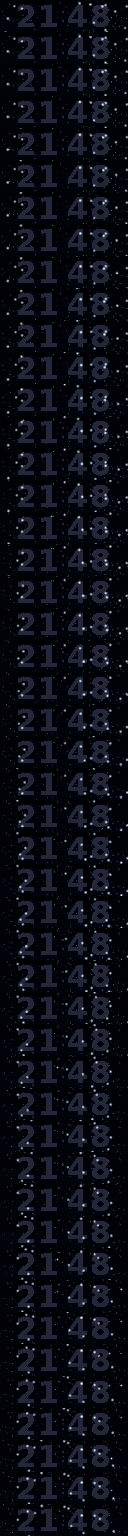
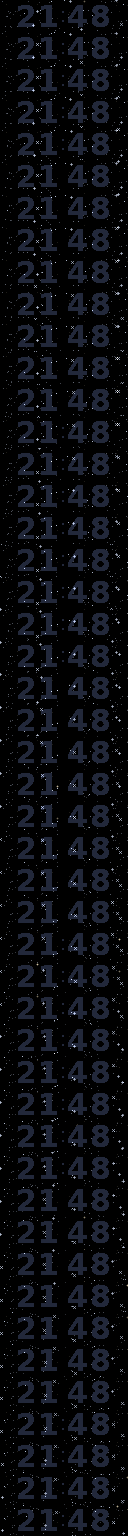
Kar: siyah gok, keskin +/x taneler, parlama, kar tozu esintisi
Claude-Session: https://claude.ai/code/session_01FXJygXqpMTD4wR1gjWr1uA

diff --git a/Core/Src/SpecDisplay.c b/Core/Src/SpecDisplay.c
@@ -81,6 +81,8 @@ typedef struct { float X, Y, Vx, Vy, Lm, Age, Dur, P; uint32_t Last; uint8_t On;
 #define SN_UZAK			70				/* Kar: uzak / yakin tane, yildiz sayisi	*/
 #define SN_YAKIN		16
 #define SN_YILDIZ		16
+#define SN_ARTI			7				/* Yakin tanelerin ilk 7'si "+"/"x" seklinde	*/
+#define SN_TOZ			40				/* Esintideki kar tozu zerresi			*/
 
 typedef struct { float R, Speed; uint16_t Hue; uint8_t Alive; } Ring;
 typedef struct { float X, Y, Vx, Vy; uint16_t Hue; uint8_t Life; } Particle;
@@ -136,9 +138,10 @@ static union
 	struct											/* Kar */
 	{
 		float		Ux[SN_UZAK], Uy[SN_UZAK], Uv[SN_UZAK];				/* Uzak taneler	*/
-		float		Yx[SN_YAKIN], Yy[SN_YAKIN], Yv[SN_YAKIN], Yf[SN_YAKIN];	/* Yakin taneler	*/
-		float		Sp[SN_YILDIZ], T, Ruzgar;								/* Yildiz parlamasi	*/
-		uint8_t		Ub[SN_UZAK], Sx[SN_YILDIZ], Sy[SN_YILDIZ], Ready;
+		float		Yx[SN_YAKIN], Yy[SN_YAKIN], Yv[SN_YAKIN], Yf[SN_YAKIN], Yp[SN_YAKIN];	/* Yakin taneler, parlama */
+		float		Tx[SN_TOZ], Ty[SN_TOZ], Tv[SN_TOZ];					/* Kar tozu		*/
+		float		Sp[SN_YILDIZ], T, Ruzgar, Es, EsT, EsSonra, EsY, EsYon;	/* Yildiz; esinti	*/
+		uint8_t		Ub[SN_UZAK], Tb[SN_TOZ], Sx[SN_YILDIZ], Sy[SN_YILDIZ], Ready;
 	} Sn;
 	struct { float T, Wx, Wd, Wa, Fl; float Gl[128]; uint8_t Pal[64][3];
 	         Meteor Me; uint8_t Ready; } Au;	/* Aurora */
@@ -2999,23 +3002,48 @@ static void SnRakam(int X0, int Y0, uint8_t Rakam)
 				Set(X0 + x, Y0 + y, 34, 40, 58);
 }
 
-/* Yumusak tane: R yaricapinda, merkez piksel arasinda olabilir (piksel alti) */
-static void SnTane(float Fx, float Fy, float R, uint32_t L)
-{
-	int x, y;
-	const int x0 = (int)floorf(Fx - R), x1 = (int)ceilf(Fx + R);
-	const int y0 = (int)floorf(Fy - R), y1 = (int)ceilf(Fy + R);
+/* Kar tanesi: keskin piksel(ler), yumusatma yok. Sekil 0 tek piksel, 1 "+", 2 "x" */
+#define SN_R(L)	((uint8_t)(((L) * 220U) >> 8))			/* Mavimsi beyaz (yildizlar sarimsi) */
+#define SN_G(L)	((uint8_t)(((L) * 232U) >> 8))
 
-	for(y = y0; y <= y1; y++)
-		for(x = x0; x <= x1; x++)
-		{
-			const float dx = (float)x + 0.5f - Fx, dy = (float)y + 0.5f - Fy;
-			float w = 1.0f - sqrtf(dx * dx + dy * dy) / (R + 0.5f);
-			uint32_t v;
-			if(w <= 0.0f) continue;
-			v = (uint32_t)((float)L * w);
-			Add(x, y, (uint8_t)((v * 235U) >> 8), (uint8_t)((v * 242U) >> 8), (uint8_t)v);	/* Hafif mavi beyaz */
-		}
+static void SnTane(float Fx, float Fy, uint8_t Sekil, uint32_t L)
+{
+	const int x = (int)floorf(Fx), y = (int)floorf(Fy);
+	uint32_t K;
+
+	if(L > 255U) L = 255U;
+	K = (L * 3U) >> 2;									/* Kollar biraz sonuk ama keskin */
+	Add(x, y, SN_R(L), SN_G(L), (uint8_t)L);
+	if(Sekil == 1U)
+	{
+		Add(x - 1, y, SN_R(K), SN_G(K), (uint8_t)K); Add(x + 1, y, SN_R(K), SN_G(K), (uint8_t)K);
+		Add(x, y - 1, SN_R(K), SN_G(K), (uint8_t)K); Add(x, y + 1, SN_R(K), SN_G(K), (uint8_t)K);
+	}
+	else if(Sekil == 2U)
+	{
+		Add(x - 1, y - 1, SN_R(K), SN_G(K), (uint8_t)K); Add(x + 1, y + 1, SN_R(K), SN_G(K), (uint8_t)K);
+		Add(x + 1, y - 1, SN_R(K), SN_G(K), (uint8_t)K); Add(x - 1, y + 1, SN_R(K), SN_G(K), (uint8_t)K);
+	}
+}
+
+/* Kar tozu esintisi: 20-40 s'de bir, ~2.5 s; ince sonuk zerreler hizla yatay gecer */
+#define SN_ES_SURE		2.5f
+
+static void SnEsintiBasla(void)
+{
+	uint32_t i;
+
+	U.Sn.EsYon = (Rand() & 1U) ? 1.0f : -1.0f;
+	U.Sn.EsY   = 8.0f + RandF() * ((float)H - 16.0f);
+	U.Sn.EsT   = 0.0f;
+	for(i = 0; i < SN_TOZ; i++)
+	{
+		const float d = RandF() * (float)W * 1.2f;		/* Ruzgarin geldigi kenarin disinda, kuyruk halinde */
+		U.Sn.Tx[i] = (U.Sn.EsYon > 0.0f) ? -d : (float)W + d;
+		U.Sn.Ty[i] = U.Sn.EsY + (RandF() - 0.5f) * 10.0f;
+		U.Sn.Tv[i] = 55.0f + RandF() * 35.0f;
+		U.Sn.Tb[i] = (uint8_t)(25U + (Rand() % 40U));
+	}
 }
 
 static void SnYeni(uint32_t i, uint8_t Yakin, uint8_t Basta)
@@ -3025,7 +3053,8 @@ static void SnYeni(uint32_t i, uint8_t Yakin, uint8_t Basta)
 	{
 		U.Sn.Yx[i] = RandF() * (float)W;   U.Sn.Yy[i] = y;
 		U.Sn.Yv[i] = 9.0f + RandF() * 6.0f;					/* px/s */
-		U.Sn.Yf[i] = RandF() * 6.28f;						/* Salinim fazi */
+		U.Sn.Yf[i] = RandF() * 6.28f;						/* Salinim / donme fazi */
+		U.Sn.Yp[i] = 0.0f;
 	}
 	else
 	{
@@ -3052,15 +3081,31 @@ static void ModeSnow(void)
 			U.Sn.Sx[i] = (uint8_t)(Rand() % W);
 			U.Sn.Sy[i] = (uint8_t)(Rand() % (H * 2U / 3U));
 		}
+		U.Sn.EsSonra = 8.0f + RandF() * 12.0f;			/* Ilk esinti erken gelsin */
 		U.Sn.Ready = 1;
 	}
 	U.Sn.T += Gdt;
 	U.Sn.Ruzgar = 3.0f * sinf(U.Sn.T * 0.07f) + 1.5f * sinf(U.Sn.T * 0.23f + 1.0f);	/* px/s, yavas doner */
 
-	/* Gok: ustte daha koyu lacivert */
+	/* Esinti zarfi: 0 -> 1 -> 0, sonra 20-40 s bekle */
+	U.Sn.Es = 0.0f;
+	if(U.Sn.EsSonra > 0.0f)
+	{
+		U.Sn.EsSonra -= Gdt;
+		if(U.Sn.EsSonra <= 0.0f) SnEsintiBasla();
+	}
+	else
+	{
+		U.Sn.EsT += Gdt;
+		if(U.Sn.EsT >= SN_ES_SURE) U.Sn.EsSonra = 20.0f + RandF() * 20.0f;
+		else U.Sn.Es = sinf(3.14159f * U.Sn.EsT / SN_ES_SURE);
+	}
+	U.Sn.Ruzgar += U.Sn.EsYon * 22.0f * U.Sn.Es;		/* Esintide taneler de savrulur */
+
+	/* Gok: siyah (gece odayi aydinlatmasin) */
 	for(y = 0; y < (int)H; y++)
 		for(x = 0; x < (int)W; x++)
-			Set(x, y, 0, (uint8_t)(1U + (uint32_t)y / 12U), (uint8_t)(5U + (uint32_t)y / 5U));
+			Set(x, y, 0, 0, 0);
 
 	/* Yildizlar: hafif parlak durur; ara sira aniden parlar, ~0.3 s'de soner */
 	for(i = 0; i < SN_YILDIZ; i++)
@@ -3069,12 +3114,12 @@ static void ModeSnow(void)
 		if(RandF() < Gdt / 3.0f) U.Sn.Sp[i] = 1.0f;		/* Ortalama 3 s'de bir */
 		U.Sn.Sp[i] *= 0.90f;
 		L = 30U + (uint32_t)(225.0f * U.Sn.Sp[i]);
-		Add(U.Sn.Sx[i], U.Sn.Sy[i], (uint8_t)L, (uint8_t)L, (uint8_t)L);
+		Add(U.Sn.Sx[i], U.Sn.Sy[i], (uint8_t)L, (uint8_t)((L * 240U) >> 8), (uint8_t)((L * 200U) >> 8));	/* Sarimsi */
 		if(U.Sn.Sp[i] > 0.3f)							/* Parlakken kucuk isik haci */
 		{
-			const uint8_t k = (uint8_t)(90.0f * U.Sn.Sp[i]);
-			Add(U.Sn.Sx[i] - 1, U.Sn.Sy[i], k, k, k); Add(U.Sn.Sx[i] + 1, U.Sn.Sy[i], k, k, k);
-			Add(U.Sn.Sx[i], U.Sn.Sy[i] - 1, k, k, k); Add(U.Sn.Sx[i], U.Sn.Sy[i] + 1, k, k, k);
+			const uint8_t k = (uint8_t)(90.0f * U.Sn.Sp[i]), kg = (uint8_t)((k * 240U) >> 8), kb = (uint8_t)((k * 200U) >> 8);
+			Add(U.Sn.Sx[i] - 1, U.Sn.Sy[i], k, kg, kb); Add(U.Sn.Sx[i] + 1, U.Sn.Sy[i], k, kg, kb);
+			Add(U.Sn.Sx[i], U.Sn.Sy[i] - 1, k, kg, kb); Add(U.Sn.Sx[i], U.Sn.Sy[i] + 1, k, kg, kb);
 		}
 	}
 
@@ -3086,7 +3131,7 @@ static void ModeSnow(void)
 		if(U.Sn.Ux[i] < -2.0f) U.Sn.Ux[i] += (float)W + 4.0f;
 		if(U.Sn.Ux[i] > (float)W + 2.0f) U.Sn.Ux[i] -= (float)W + 4.0f;
 		if(U.Sn.Uy[i] > (float)H + 1.0f) SnYeni(i, 0, 0);
-		SnTane(U.Sn.Ux[i], U.Sn.Uy[i], 0.4f, U.Sn.Ub[i]);
+		SnTane(U.Sn.Ux[i], U.Sn.Uy[i], 0U, U.Sn.Ub[i]);		/* Tek sonuk piksel */
 	}
 
 	/* Saat: soluk golge, HH:MM ortada; iki nokta saniyede bir yanip soner */
@@ -3110,15 +3155,34 @@ static void ModeSnow(void)
 		}
 	}
 
-	/* Yakin kar: saatin onunde, iri ve parlak, salinarak */
+	/* Kar tozu: esintide, sonuk tek pikseller hizla gecer (saatin onunden) */
+	if(U.Sn.EsSonra <= 0.0f)
+		for(i = 0; i < SN_TOZ; i++)
+		{
+			const uint32_t L = (uint32_t)((float)U.Sn.Tb[i] * (0.4f + 0.6f * U.Sn.Es));
+			U.Sn.Tx[i] += U.Sn.EsYon * U.Sn.Tv[i] * Gdt;
+			U.Sn.Ty[i] += 6.0f * sinf(U.Sn.Tx[i] * 0.15f + (float)i) * Gdt;	/* Hafif dalgali serit */
+			if(U.Sn.Tx[i] >= 0.0f && U.Sn.Tx[i] < (float)W)
+				SnTane(U.Sn.Tx[i], U.Sn.Ty[i], 0U, L);
+		}
+
+	/* Yakin kar: saatin onunde, salinarak. Ilk SN_ARTI tanesi "+"/"x" (donuyormus gibi),
+	   digerleri tek parlak piksel. Ara sira isik yakalayip bir an parlar. */
 	for(i = 0; i < SN_YAKIN; i++)
 	{
+		uint32_t L;
 		U.Sn.Yy[i] += U.Sn.Yv[i] * Dt;
 		U.Sn.Yx[i] += (U.Sn.Ruzgar + 2.5f * sinf(U.Sn.T * 1.7f + U.Sn.Yf[i])) * Dt;
 		if(U.Sn.Yx[i] < -3.0f) U.Sn.Yx[i] += (float)W + 6.0f;
 		if(U.Sn.Yx[i] > (float)W + 3.0f) U.Sn.Yx[i] -= (float)W + 6.0f;
 		if(U.Sn.Yy[i] > (float)H + 2.0f) SnYeni(i, 1, 0);
-		SnTane(U.Sn.Yx[i], U.Sn.Yy[i], 0.9f + 0.04f * U.Sn.Yv[i], (uint32_t)(150.0f + 7.0f * U.Sn.Yv[i]));
+		if(RandF() < Gdt / 6.0f) U.Sn.Yp[i] = 1.0f;		/* Ortalama 6 s'de bir parlama */
+		U.Sn.Yp[i] *= 0.88f;
+		L = (uint32_t)(140.0f + 5.0f * U.Sn.Yv[i] + 60.0f * U.Sn.Yp[i]);
+		if(i < SN_ARTI)
+			SnTane(U.Sn.Yx[i], U.Sn.Yy[i], (((uint32_t)(U.Sn.T * (1.2f + 0.08f * U.Sn.Yv[i]) + U.Sn.Yf[i])) & 1U) ? 2U : 1U, L);
+		else
+			SnTane(U.Sn.Yx[i], U.Sn.Yy[i], 0U, L);
 	}
 }
 

diff --git a/NOTLAR.md b/NOTLAR.md
@@ -59,6 +59,8 @@ Yazmadan önce cihazdaki dosyayı stage edip diff al (CubeIDE / başka oturum de
 
 ## Kararlar
 - Birbirinin aynısı mod yok; sadece rengi farklıysa ayrı mod sayılmaz.
+- Kar: zemin siyah (gece odayı aydınlatmasın); uzak tane 1 sönük px, yakın 9 tek parlak px + 7 keskin "+"/"×"
+  (dönüyormuş gibi), ara sıra parlama; yıldızlar sarımsı; 20-40 s'de bir ~2.5 s kar tozu esintisi (sönük zerreler).
 - Alev rengi: Buz kaldırıldı (Mavi gaz ile aynıydı). Katmanlı Dağ/Örgü Şerit renk daireleri ailenin ilk-son rengiyle
   geçişli ("Ad:RRGGBB,RRGGBB", protokol 256 B sınırı: PAL tanımı 229 B). Android Saat satırında kabarık "Ayarla" düğmesi.
 - Renkli Dalga "Kontrast" ayarı kaldırıldı, sabit %150 (SWV_DOLULUK). Açılış/fabrika modu 0 = Klasik.
